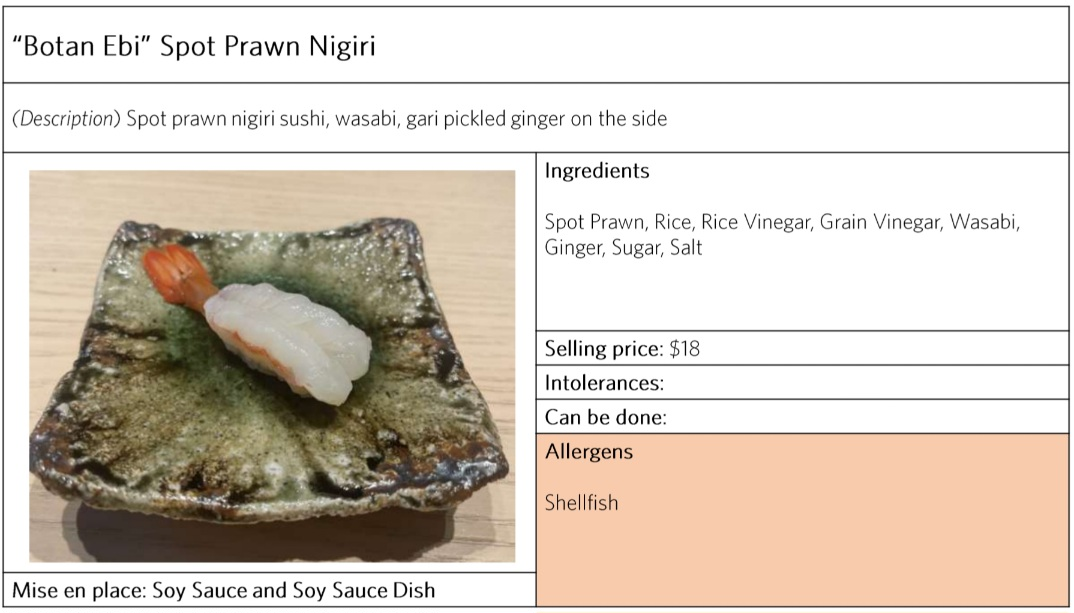
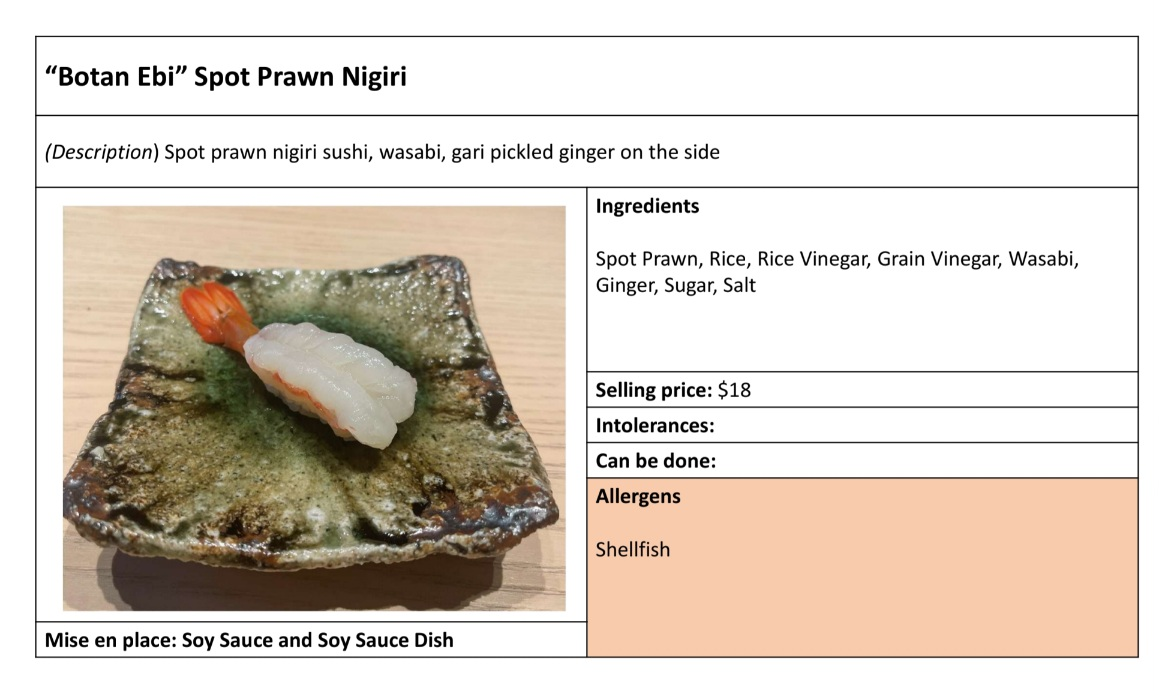
update nigiri pics

diff --git a/app/manager/page.jsx b/app/manager/page.jsx
@@ -817,7 +817,7 @@ export default function ManagerDinnerPage() {
                 </div>
 
                 <div  className="dinner-menu-item nigiri"
-                      onClick={()=>showModal('ebi')}
+                      // onClick={()=>showModal('ebi')}
                 >
                   <div className="name-price">
                     <span>
@@ -2727,7 +2727,7 @@ export default function ManagerDinnerPage() {
               <div className="right-column">
                   <div className="name-price">
                     <span>
-                      <span className="name">Botan Ebi (Shrimp)</span>
+                      <span className="name">Shimaaji (Striped Jack)</span>
                       <span className="allergies"></span>
                     </span>
                     <span className="price">19</span>
@@ -2739,7 +2739,7 @@ export default function ManagerDinnerPage() {
             </div>{/* .modal-text */}  
           </div>{/* .modal-content */}    
       </div>
-    </div>{/* #ebi */}
+    </div>{/* #shima-aji */}
 
     <div id="santa-barbara-uni" className='modal'>
       <div>
@@ -3546,6 +3546,44 @@ export default function ManagerDinnerPage() {
           </div>{/* .modal-content */}  
       </div>
     </div>{/* #shima-aji-tataki */}
+
+    <div id="ebi" className='modal'>
+      <div>
+          <AiTwotoneCloseCircle className="close-button" onClick={closeModals} />   
+          <div className='modal-content'>
+          
+          <div>
+            <img src={`ebi.jpg?v={Date.now()}`} />
+          </div>
+          <div className='modal-text'>
+                          
+              
+              MENU DESCRIPTION:
+              <div className="right-column">
+                          <div className="name-price">
+                            <span>
+                              <span className="name">Botan Ebi (Spot Prawn)</span>
+                              <span className="allergies"></span>
+                            </span>
+                            <span className="price">19</span>
+                          </div>
+                          <div className="description1"></div>
+                          <div className="description2"></div>
+                          
+                          <hr/>
+                          <br/>
+                          5pcs seared shima aji/striped jack<br/>
+                          tosazu jelly<br/>
+                          shredded radish<br/>
+                          shiso leaf<br/>
+                          wakame seaweed<br/>
+                          hanaho flowers<br/>
+                          <br/><br/>
+              </div>
+            </div>{/* .modal-text */} 
+          </div>{/* .modal-content */}  
+      </div>
+    </div>{/* #ebi */}
 
     <div id="nasu-agebitashi" className='modal'>
       <div>

diff --git a/app/page.jsx b/app/page.jsx
@@ -2555,6 +2555,35 @@ appetizers, seasonal plates, and dessert.
       </div>
     </div>{/* #same-karai */}
 
+    <div id="ebi" className='modal'>
+      <div>
+          <AiTwotoneCloseCircle className="close-button" onClick={closeModals} />   
+          <div className='modal-content'>
+          
+          <div>
+            <img src={`ebi.jpg?v={Date.now()}`} />
+          </div>
+          <div className='modal-text'>
+                          
+              
+              MENU DESCRIPTION:
+              <div className="right-column">
+                  <div className="name-price">
+                    <span>
+                      <span className="name">Botan Ebi (Spot Prawn)</span>
+                      <span className="allergies"></span>
+                    </span>
+                    <span className="price">19</span>
+                  </div>
+                          <hr/>
+                          <br/>
+                          <br/><br/>
+              </div>
+            </div>{/* .modal-text */} 
+          </div>{/* .modal-content */}  
+      </div>
+    </div>{/* #ebi */}
+
     <div id="madai" className='modal'>
       <div>
           <AiTwotoneCloseCircle className="close-button" onClick={closeModals} />   
